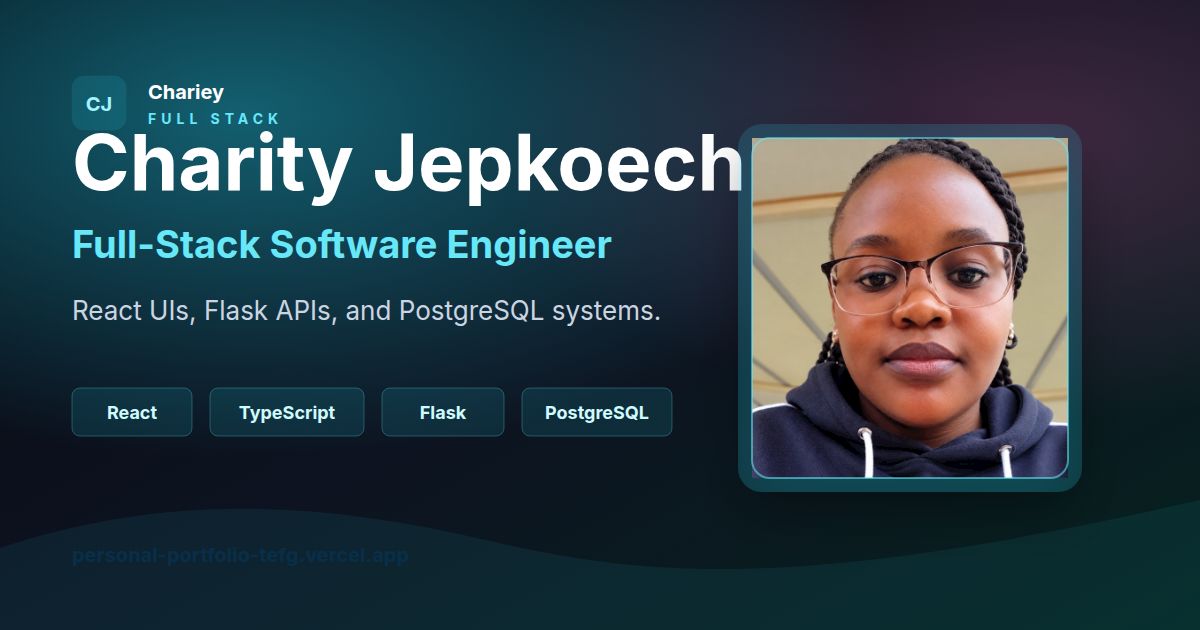
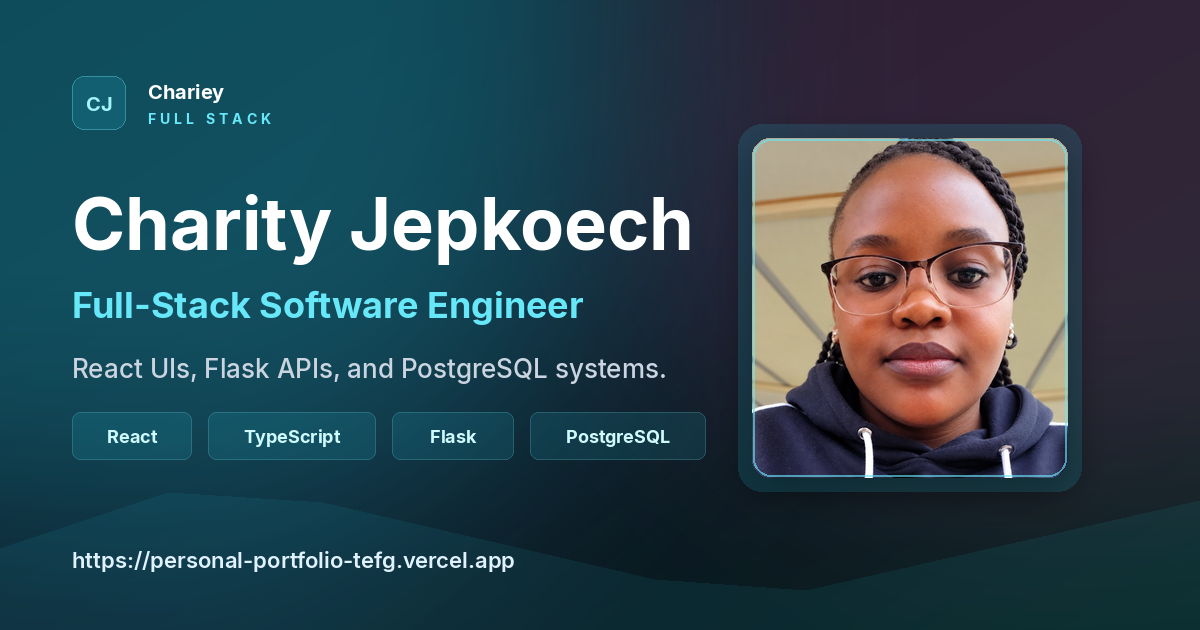
feat(share): move the portfolio preview off the page
Keep the contact form, and publish the 1200x630 preview as a public image with Open Graph and Twitter metadata plus an admin download link.

Changed region(s): [[0.0, 0.1206, 1.0, 0.9651], [0.0617, 0.1508, 0.0925, 0.181], [0.0, 0.0, 0.0308, 0.0302]]

diff --git a/index.html b/index.html
@@ -3,40 +3,34 @@
   <head>
     <meta charset="UTF-8" />
     <meta name="viewport" content="width=device-width, initial-scale=1.0" />
-    <title>Charity's Portfolio | Full-Stack Software Engineer</title>
+    <title>Charity Jepkoech | Full-Stack Software Engineer</title>
     <meta
       name="description"
-      content="A showcase of Charity's software engineering projects, skills, and work."
+      content="Charity Jepkoech is a full-stack software engineer building React, TypeScript, Flask, and PostgreSQL applications."
     />
+    <link rel="canonical" href="https://personal-portfolio-tefg.vercel.app/" />
     <meta property="og:type" content="website" />
-    <meta property="og:title" content="Charity's Portfolio" />
+    <meta property="og:site_name" content="Charity Jepkoech" />
+    <meta property="og:title" content="Charity Jepkoech | Full-Stack Software Engineer" />
     <meta
       property="og:description"
-      content="A showcase of Charity's software engineering projects, skills, and work."
+      content="Charity Jepkoech is a full-stack software engineer building React, TypeScript, Flask, and PostgreSQL applications."
     />
-    <meta property="og:url" content="https://personal-portfolio-tefg.vercel.app" />
+    <meta property="og:url" content="https://personal-portfolio-tefg.vercel.app/" />
     <meta property="og:image" content="https://personal-portfolio-tefg.vercel.app/portfolio-preview.png" />
-    <meta property="og:image:alt" content="Charity Jepkoech full-stack software engineer portfolio preview" />
+    <meta property="og:image:secure_url" content="https://personal-portfolio-tefg.vercel.app/portfolio-preview.png" />
+    <meta property="og:image:type" content="image/png" />
+    <meta property="og:image:alt" content="Charity Jepkoech, Full-Stack Software Engineer" />
     <meta property="og:image:width" content="1200" />
     <meta property="og:image:height" content="630" />
     <meta name="twitter:card" content="summary_large_image" />
-    <meta name="twitter:title" content="Charity's Portfolio" />
+    <meta name="twitter:title" content="Charity Jepkoech | Full-Stack Software Engineer" />
     <meta
       name="twitter:description"
-      content="A showcase of Charity's software engineering projects, skills, and work."
+      content="Charity Jepkoech is a full-stack software engineer building React, TypeScript, Flask, and PostgreSQL applications."
     />
     <meta name="twitter:image" content="https://personal-portfolio-tefg.vercel.app/portfolio-preview.png" />
-    <meta
-      name="description"
-      content="Charity Jepkoech is a full stack software engineer building React, Python, Flask, and database-backed applications."
-    />
-    <meta property="og:title" content="Charity Jepkoech | Full Stack Software Engineer" />
-    <meta
-      property="og:description"
-      content="A modern engineering portfolio with case studies, stack depth, and contact workflow."
-    />
-    <meta property="og:type" content="website" />
-    <title>Charity Jepkoech | Full Stack Software Engineer</title>
+    <meta name="twitter:image:alt" content="Charity Jepkoech, Full-Stack Software Engineer" />
     <script>
       (() => {
         const params = new URLSearchParams(window.location.search);

diff --git a/frontend/src/sections/Contact.tsx b/frontend/src/sections/Contact.tsx
@@ -1,11 +1,10 @@
-import { ArrowUpRight, Github, Linkedin, Loader2, Mail } from "lucide-react";
+import { Github, Linkedin, Loader2, Mail } from "lucide-react";
 import { FormEvent, useState } from "react";
 import { SectionHeading } from "../components/SectionHeading";
 import { usePortfolioContent } from "../data/PortfolioContentContext";
 import { inquiryTypes, submitContact } from "../services/contact";
 
 const initialState = { name: "", email: "", inquiryType: "Job Opportunity", message: "" };
-const portfolioUrl = "https://personal-portfolio-tefg.vercel.app";
 
 export function Contact() {
   const { profile } = usePortfolioContent();
@@ -48,7 +47,7 @@ export function Contact() {
 
   return (
     <section id="contact" className="contact-section section-shell">
-      <div className="mx-auto grid max-w-7xl gap-8 px-5 lg:grid-cols-[0.9fr_1.1fr] md:px-8">
+      <div className="mx-auto grid max-w-7xl items-start gap-10 px-5 md:px-8 lg:grid-cols-[minmax(0,26rem)_minmax(0,1fr)] lg:gap-16">
         <div>
           <SectionHeading
             eyebrow="Contact"
@@ -73,30 +72,6 @@ export function Contact() {
               </a>
             ) : null}
           </div>
-          <a
-            className="portfolio-preview-card focus-ring mt-8 block overflow-hidden rounded-lg border transition duration-200 hover:-translate-y-1"
-            href={portfolioUrl}
-            target="_blank"
-            rel="noreferrer"
-            aria-label="View Charity's Portfolio"
-          >
-            <img
-              className="aspect-[1200/630] w-full object-cover"
-              src="/portfolio-preview.png"
-              alt="Charity Jepkoech portfolio preview"
-              loading="lazy"
-            />
-            <span className="block p-5">
-              <span className="block text-xl font-semibold">Charity&apos;s Portfolio</span>
-              <span className="mt-2 block leading-7">
-                A showcase of Charity&apos;s software engineering projects, skills, and work.
-              </span>
-              <span className="mt-5 inline-flex min-h-10 items-center gap-2 rounded-md px-4 py-2 text-sm font-semibold">
-                Visit Portfolio
-                <ArrowUpRight size={16} aria-hidden="true" />
-              </span>
-            </span>
-          </a>
         </div>
 
         <form className="contact-form rounded-lg border p-6 shadow-soft" onSubmit={handleSubmit}>

diff --git a/frontend/src/shareMetadata.test.ts b/frontend/src/shareMetadata.test.ts
@@ -1,0 +1,33 @@
+import { readFileSync } from "node:fs";
+
+const html = readFileSync(new URL("../../index.html", import.meta.url), "utf8");
+const rawHead = html.slice(html.indexOf("<head>"), html.indexOf("</head>"));
+const head = rawHead.replace(/\s+/g, " ");
+const site = "https://personal-portfolio-tefg.vercel.app/";
+const image = `${site}portfolio-preview.png`;
+
+function meta(attr: "property" | "name", key: string) {
+  const pattern = new RegExp(`<meta ${attr}="${key}" content="([^"]*)"`, "g");
+  return [...head.matchAll(pattern)].map((match) => match[1]);
+}
+
+describe("share metadata in the initial HTML", () => {
+  it("publishes one Open Graph and Twitter card before any script", () => {
+    const beforeScript = rawHead.slice(0, rawHead.indexOf("<script"));
+
+    expect(meta("property", "og:title")).toEqual(["Charity Jepkoech | Full-Stack Software Engineer"]);
+    expect(meta("property", "og:description")[0]).toContain("Full-Stack Software Engineer");
+    expect(meta("property", "og:description")).toHaveLength(1);
+    expect(meta("property", "og:url")).toEqual([site]);
+    expect(meta("property", "og:image")).toEqual([image]);
+    expect(meta("property", "og:image:width")).toEqual(["1200"]);
+    expect(meta("property", "og:image:height")).toEqual(["630"]);
+    expect(meta("name", "twitter:card")).toEqual(["summary_large_image"]);
+    expect(meta("name", "twitter:title")).toEqual(["Charity Jepkoech | Full-Stack Software Engineer"]);
+    expect(meta("name", "twitter:image")).toEqual([image]);
+    expect(meta("name", "description")).toHaveLength(1);
+    expect(beforeScript).toContain(`<link rel="canonical" href="${site}" />`);
+    expect(beforeScript).toContain("og:image");
+    expect(beforeScript).not.toContain("Charity's Portfolio");
+  });
+});

diff --git a/frontend/src/styles.css b/frontend/src/styles.css
@@ -322,30 +322,6 @@ textarea {
   background: rgba(5, 8, 16, 0.82);
 }
 
-.portfolio-preview-card {
-  max-width: 31rem;
-  border-color: rgba(255, 255, 255, 0.12);
-  background: rgba(5, 8, 16, 0.72);
-  color: #cbd5e1;
-  box-shadow: 0 20px 60px rgba(0, 0, 0, 0.28);
-}
-
-.portfolio-preview-card:hover {
-  border-color: rgba(34, 211, 238, 0.55);
-  color: #f8fafc;
-  box-shadow: 0 24px 75px rgba(34, 211, 238, 0.13);
-}
-
-.portfolio-preview-card span span:first-child {
-  color: #ffffff;
-}
-
-.portfolio-preview-card span span:last-child {
-  border: 1px solid rgba(103, 232, 249, 0.35);
-  background: rgba(34, 211, 238, 0.12);
-  color: #cffafe;
-}
-
 :root[data-theme="light"] .contact-section {
   background:
     radial-gradient(circle at 16% 18%, rgba(14, 165, 233, 0.12), transparent 25rem),
@@ -362,31 +338,6 @@ textarea {
 
 :root[data-theme="light"] .contact-form .field-label {
   color: #0f172a;
-}
-
-:root[data-theme="light"] .portfolio-preview-card {
-  border-color: rgba(15, 23, 42, 0.12);
-  background:
-    linear-gradient(180deg, rgba(255, 255, 255, 0.96), rgba(248, 252, 254, 0.88)),
-    rgba(255, 255, 255, 0.9);
-  color: #475569;
-  box-shadow: 0 22px 60px rgba(15, 23, 42, 0.1);
-}
-
-:root[data-theme="light"] .portfolio-preview-card:hover {
-  border-color: rgba(2, 132, 199, 0.3);
-  color: #334155;
-  box-shadow: 0 26px 70px rgba(2, 132, 199, 0.14);
-}
-
-:root[data-theme="light"] .portfolio-preview-card span span:first-child {
-  color: #0f172a;
-}
-
-:root[data-theme="light"] .portfolio-preview-card span span:last-child {
-  border-color: rgba(2, 132, 199, 0.24);
-  background: rgba(14, 165, 233, 0.1);
-  color: #075985;
 }
 
 :root[data-theme="light"] .field-label button {

diff --git a/frontend/src/sections/AdminApp.tsx b/frontend/src/sections/AdminApp.tsx
@@ -1,5 +1,5 @@
 import { type ChangeEvent, type FormEvent, useEffect, useState } from "react";
-import { Archive, Eye, EyeOff, ExternalLink, FileText, Image, Lock, LogOut, Plus, Save, Trash2, Upload } from "lucide-react";
+import { Archive, Download, Eye, EyeOff, ExternalLink, FileText, Image, Lock, LogOut, Plus, Save, Trash2, Upload } from "lucide-react";
 import { ThemeToggle } from "../components/ThemeToggle";
 import { adminRequest, getAdminContactMessages, getAdminDocuments, loginAdmin } from "../services/portfolio";
 import type { ContactMessage, DocumentType, PortfolioDocument, Profile, Project, Testimonial } from "../types/portfolio";
@@ -72,6 +72,10 @@ export function AdminApp() {
           <h1 className="mt-2 text-3xl font-semibold text-white">Admin Dashboard</h1>
         </div>
         <div className="flex flex-wrap items-center gap-3">
+          <a className="button-secondary" href="/portfolio-preview.png" download="charity-jepkoech-portfolio-preview.png">
+            <Download size={18} aria-hidden="true" />
+            Download share preview
+          </a>
           <ThemeToggle />
           <button
             className="button-secondary"

diff --git a/frontend/src/App.test.tsx b/frontend/src/App.test.tsx
@@ -109,6 +109,10 @@ describe("portfolio app", () => {
       "src",
       "/images/profile/charity-jepkoech.jpg",
     );
+    expect(screen.queryByRole("link", { name: /view charity's portfolio/i })).not.toBeInTheDocument();
+    expect(screen.queryByRole("img", { name: /portfolio preview/i })).not.toBeInTheDocument();
+    expect(screen.queryByText(/visit portfolio/i)).not.toBeInTheDocument();
+    expect(screen.getByRole("button", { name: /send message/i })).toBeInTheDocument();
   });
 
   it("renders navigation and major portfolio sections", async () => {
